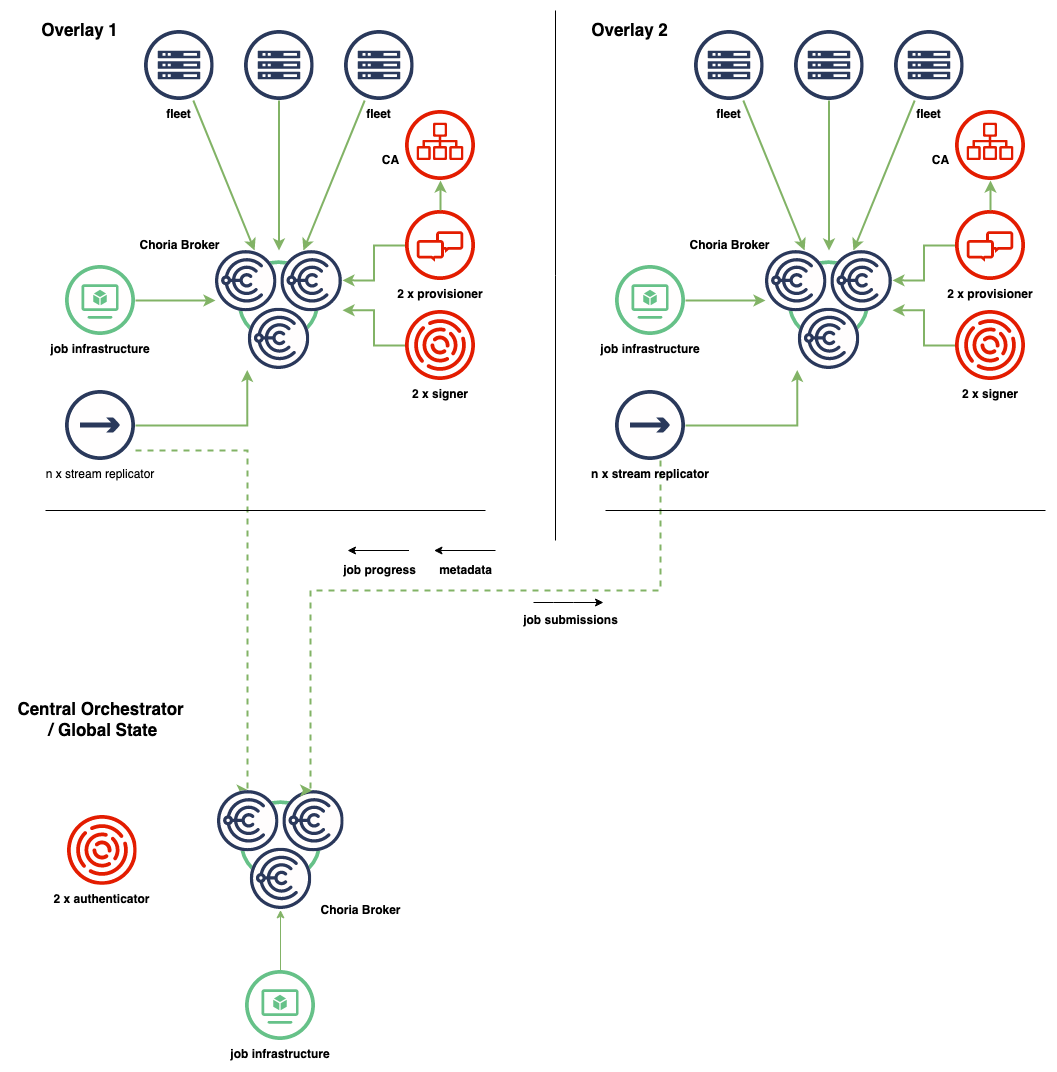
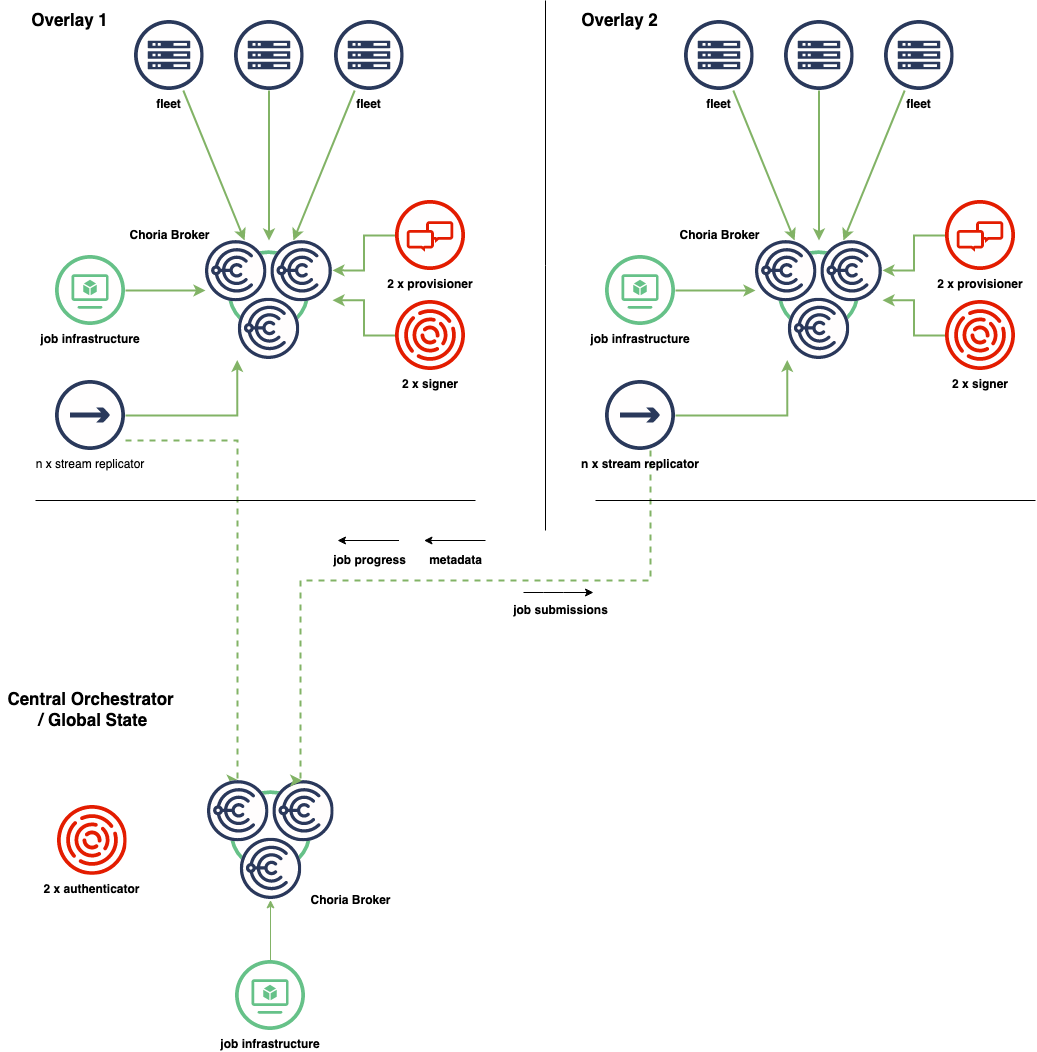
update large scale for ed25519

diff --git a/docs/content/concepts/large_scale/_index.md b/docs/content/concepts/large_scale/_index.md
@@ -14,9 +14,7 @@ This architecture has been deployed successfully across global organisations wit
 
 The goal of this architecture is to provide a connective substrate that enables a very large enterprise workflow system to be built. Such large workflow system makes many demands of the underlying infrastructure and need to be able to run over heterogeneous infrastructure.
 
-We'll discuss this system in the context of a system that can execute workflows as simple as executing a single command on 10s of thousands of nodes in a region or as complex as a multi-stage workflow that can run for a long time, orchestration 100s or 1000s of steps.
-
-Single workflows can impact machines in multiple regions, have sub-workflows and have dependencies on completion of steps that happen in other regions. Everything built on a foundational mature security model providing strong Authentication, Authorization and Auditing.
+We'll discuss this architecture in the context of a system that can execute workflows as simple as executing a single command on 10s of thousands of nodes in a region or as complex as a multi-stage workflow that can run for a long time, orchestration 100s or 1000s of steps. Single workflows can impact machines in multiple regions, have sub-workflows and have dependencies on completion of steps that happen in other regions. Everything built on a foundational mature security model providing strong Authentication, Authorization and Auditing.
 
 In this document we will not dwell much on the actual workflow engine rather we show how the various components of Choria would enable such a system to be built reliably and at large scale. A conceptual design of the actual workflow system might be included later, but the actual flow engine is not a component included in Choria today. One can mentally replace this workflow component with any other component that need access to programmable infrastructure.
 
@@ -44,7 +42,6 @@ As mentioned the system will be cellular in design - in Choria we call each cell
 
  * [Choria Network Brokers](https://choria.io/docs/deployment/broker/) with the [Choria Streams](https://choria.io/docs/streams/) capability enabled
  * [Choria Provisioner](https://github.com/choria-io/provisioner) that provisions individual fleet nodes onto the Choria network
- * Enterprise Certificate Authority integrated into *Choria Provisioner* to ensure a strong mTLS is in use in compliance with enterprise security
  * [Choria AAA Server](https://github.com/choria-io/aaasvc) providing integration with Enterprise SSO systems, pkcs11 tokens and more
  * [Choria Stream Replicator](https://github.com/choria-io/stream-replicator) allowing data from an overlay to be replicated to a region or to a central location
 
@@ -68,17 +65,16 @@ Choria therefore supports a provisioning mode where the process of enrolling a n
 
  * Custom endpoints for provisioning where needed. Optionally programmatically determined via plugins that can be compiled into Choria
  * Fully dynamic generation of configuration based on node metadata and fleet environment
- * Integration into Certificate Authorities provided by Enterprise Security - provided they meet some requirements
  * Self-healing via cycling back into provisioning on critical error
  * On-boarding of machines at a rate of thousands a minute
 
-The component that owns this process is the *Choria Provisioner* and within *Choria Server* a special mode can be enabled by using JWT tokens.
+The component that owns this process is the [Choria Provisioner](https://github.com/choria-io/provisioner) and within *Choria Server* a special mode can be enabled by using JWT tokens or plugin.
 
 The *Choria Broker* has a special mode that enables unprovisioned fleet nodes to connect using unverified TLS connections. At first this seems risky to allow unverified and verified TLS connections, however we have several mitigations to make this safe:
 
  * Unverified TLS support is off by default
- * Connections coming in on unverified connections **MUST** present a *provision.jwt* that **MUST** validate using the public certificate the broker has in its configuration
- * Only servers with a *provision.jwt* is allowed to connect, those servers have very strict permissions. They cannot communicate with any other unprovisioned servers and may only start a specific few agents
+ * Connections coming in on unverified connections **MUST** present a JWT that **MUST** validate using the public certificate the broker has in its configuration
+ * Connections presenting a `ProvisioningPurpose` token is allowed to connect, those servers have very strict permissions. They cannot communicate with any other unprovisioned servers and may only start a specific few agents
  * The *Choria Provisioner* **MUST** connect over verified TLS and must present a password matching one the broker has in its configuration. Only the *Choria Provisioner* can make requests to unprovisioned nodes.
  * The entire provisioning system is isolated within the broker in an Account - meaning there is no Choria communications between provisioned and unprovisioned nodes
  * Life-cycle events are transported into the Choria account and into Streams to facilitate a central audit stream
@@ -90,7 +86,7 @@ This means the central - redundant - broker infrastructure can be used to accept
 The general provisioning flow is as follows:
 
  * Choria Server starts up without a configuration
-   * It checks if there is a *provisioning.jwt* in a well known location (see `choria buildinfo`)
+   * It checks if there is a *provisioning.jwt* in a well known location (see `choria buildinfo`) or interrogate a site specific plugin
    * The token is parsed and configuration like SRV domain, locations of metadata to expose and more is read from it.
    * Choria Server activates the *choria_provisioning* agent that is compiled into it, this agent is usually disabled in Puppet environments.
    * Choria Server connects to the infrastructure described in the token and wait there for provisioning. Regularly publishing CloudEvents and, optionally node metadata.
@@ -99,52 +95,7 @@ Here the *provisioning.jwt* is a token that you would generate on a per Overlay 
 
 The *Choria Provisioner* actively listens for CloudEvents indicating a new machine just arrived in the environment ready for provisioning. Assuming sometimes these events can be missed it also actively scans, via the [discovery framework](../discovery/), the network for nodes ready for provisioning.
 
-{{<mermaid align="left">}}
-sequenceDiagram
-   participant S as Server
-   participant P as Provisioner
-   participant H as Helper
-   participant CA
-
-   P ->> P: Discover servers
-
-   loop Every Server
-      P ->> S: Retrieve JWT
-      S ->> S: Start ECDH
-      S ->> P: JWT and ECDH Public
-      P ->> P: Validate JWT
-
-      P ->> S: Retrieve facts, metadata
-      S ->> P:
-
-
-      P ->> S: Request CSR
-      S ->> P:
-
-      P ->> H: Process Server
-      H ->> CA: Request PKI files
-      CA ->> H: PKI files
-      H ->> H: Generate configuration
-      H ->> P: Node configuration and PKI
-
-      opt received private key
-         P ->> P: Continues ECDH
-         P ->> P: Encrypts Private Key
-      end
-
-      P ->> S: Provide configuration and PKI
-      S ->> S: Configure self
-
-      opt received private key
-         S ->> S: Completes ECDH
-         S ->> S: Decrypts and Store Private Key
-      end
-
-      S ->> P: Confirm
-
-      S ->> S: Restart into normal boot
-   end
-{{< /mermaid >}}
+![Provisioning Flow](../../large-scale/provisioning-flow.svg)
 
 We show an external helper, this is just a script or command that reads data on it's STDIN and writes the result to STDOUT. Any programming language can be used. Using this one can provide a single provisioner for an entire region or even globally, the provisioner can decide what Overlay to place a node in.
 
@@ -154,7 +105,7 @@ The decision about which Overlay to place a node can be made by metadata provide
 
 Being that the extension point is an external script any level of integration can be done that a user might want without recompiling any Choria components.
 
-Generally the flow is based on a CSR that is signed by the CA. Some enterprises requires a flow where a central actor has to create all private keys.  We do not recommend supporting such a deployment model at all, but if we have to we use a [Curve 25519](https://en.wikipedia.org/wiki/Curve25519) based [Diffie-Hellman](https://en.wikipedia.org/wiki/Elliptic-curve_Diffie%E2%80%93Hellman) secret exchange to agree on an encryption key that is used to encrypt the Private key in transport.  This means the Key is encrypted using a passphrase that never traverse the network and nothing that can be used to derive the passphrase ever traverse the network.
+Generally the flow is based on a ED25519 key exchange where the server generates a Private Key and signs a Nonce the Provisioner gave it. The Public key having been verified is then placed in a `ServerPurpose` JWT token along with claims giving servers access to certain features, organizational units and more.
 
 ### Further Reading
 
@@ -165,13 +116,13 @@ Generally the flow is based on a CSR that is signed by the CA. Some enterprises 
 
 ### TODO
 
- * Perhaps extend the information that can be embedded in the CSR including SANs
- * In addition to certificates allow a token to be placed on the node to access Choria Broker multi tenancy model
- * Reprovision on cert expiry [go-choria#1309](https://github.com/choria-io/go-choria/issues/1309)
+ * Reprovision on Token expiry [go-choria#1309](https://github.com/choria-io/go-choria/issues/1309)
 
 ## Certificate Authorities
 
-As described above the Provisioning Server can be used to integrate Choria into enterprise Certificate Authorities. There's a lot of detail in this one point though, and the CA has to have certain properties:
+While not shown above the Provisioner can also integrate with Certificate Authorities and handle dynamically enrolling new nodes into a CA. This is often problematic in large environments so the flow above relies on a non mTLS based Choria Network.
+
+Should a CA integration be desired it would need to satisfy these requirements:
 
  * The CA **MUST** issue certificates with a SAN set. Go will not allow certificates without SANs to be used
  * Fleet node certificates must have the node FQDN in them
@@ -191,7 +142,7 @@ It might be desirable to instead obtain an intermediate CA from the Enterprise C
 
 ## Enterprise Authentication
 
-In cases where user level access to Choria will be provided it might be desirable to provide a flow where users need to login to the Choria environment using something like `choria login`, this might require 2FA token, enterprise SSO or other integrations.
+In cases where user level access to Choria will be provided it might be desirable to provide a flow where users need to login to the Choria environment using something like *choria login*, this might require 2FA token, enterprise SSO or other integrations.
 
 Choria supports these using a flow supported by the [Choria AAA Service](https://github.com/choria-io/aaasvc).
 
@@ -209,16 +160,24 @@ For the authorization rule we support 2 models, a basic list of *agent.action* r
 
 ```json
 {
-  "agents": [
+   "agents": [
     "rpcutil.ping",
     "puppet.*"
-  ],
-  "callerid": "okta=rip@choria.io",
-  "exp": 1547742762
+   ],
+   "callerid": "okta=rip@choria.io",
+   "exp": 1547742762,
+   "nbf": 1547634762,
+   "iat": 1547634762, 
+   "ou": "choria",
+   "permissions": {
+      "streams_admin": true,
+      "events_viewer": true
+   },
[1 lines of base64/hex data omitted]
 }
 ```
 
-Here I am allowed to access all actions on the *puppet* agent and only 1 action on the *rpcutil* agent. The token encodes who I am (*callerid*) and how long the token is valid for.  The token is signed using an RSA private key.
+Here I am allowed to access all actions on the *puppet* agent and only 1 action on the *rpcutil* agent. The token encodes who I am (*callerid* and *public_key*) and how long the token is valid for. It also gives me some broker level permissions for Choria Streams. The token is signed using an RSA private key. 
 
 More complex policies can be written using Open Policy Agent and embedded in the token, here's an example policy:
 

diff --git a/docs/content/concepts/terminology/_index.md b/docs/content/concepts/terminology/_index.md
@@ -44,17 +44,23 @@ A micro-services framework hosted within the Choria Broker process that receives
 
 Delivered as part of the *choria* single binary.
 
+## Choria Governor
+
+[Governor](../../streams/governor) is a system that can control network wide Concurrency for Cron Jobs, Choria internal processes and more.
+
 ## Choria Federation Broker
 
 A Choria protocol aware router and intelligent gateway that connect several independent Collectives together into 1.  Also performs co-processing for Clients significantly reducing the work they have to do.
 
 Delivered as part of the *choria* single binary.
 
-## Choria Server
+## Choria Key-Value Store
 
-A *Server* written in Golang. It can run standalone and replace *mcollectived* but can also be embedded into other Golang projects at compile time.
+[Key-Value Store](../../streams/key-value) is a highly available, distributed Key-Value store built into the Choria Broker and integrated with Choria Autonomous Agents and more.
 
-Delivered as part of the *choria* single binary.
+## Choria Message Submit
+
+[Submit](../../streams/submission) allows local processes like Cron Jobs to submit data to Choria Streams reliably and without maintaining network connections.
 
 ## Choria Network Broker
 
@@ -65,6 +71,16 @@ Delivered as part of the *choria* single binary.
 ## Choria Scout
 
 [Scout](../../scout) is a project currently in R&D that will deliver a full feature, secure and highly scalable monitoring system using Choria technologies.
+
+## Choria Server
+
+A *Server* written in Golang. It can run standalone and replace *mcollectived* but can also be embedded into other Golang projects at compile time.
+
+Delivered as part of the *choria* single binary.
+
+## Choria Service Registry
+
+Resolves, Serves and Transforms DDL files - Choria internal schema documents for accessing remote Agents, Services and more - against a highly available network based service.
 
 ## Choria Streams
 
